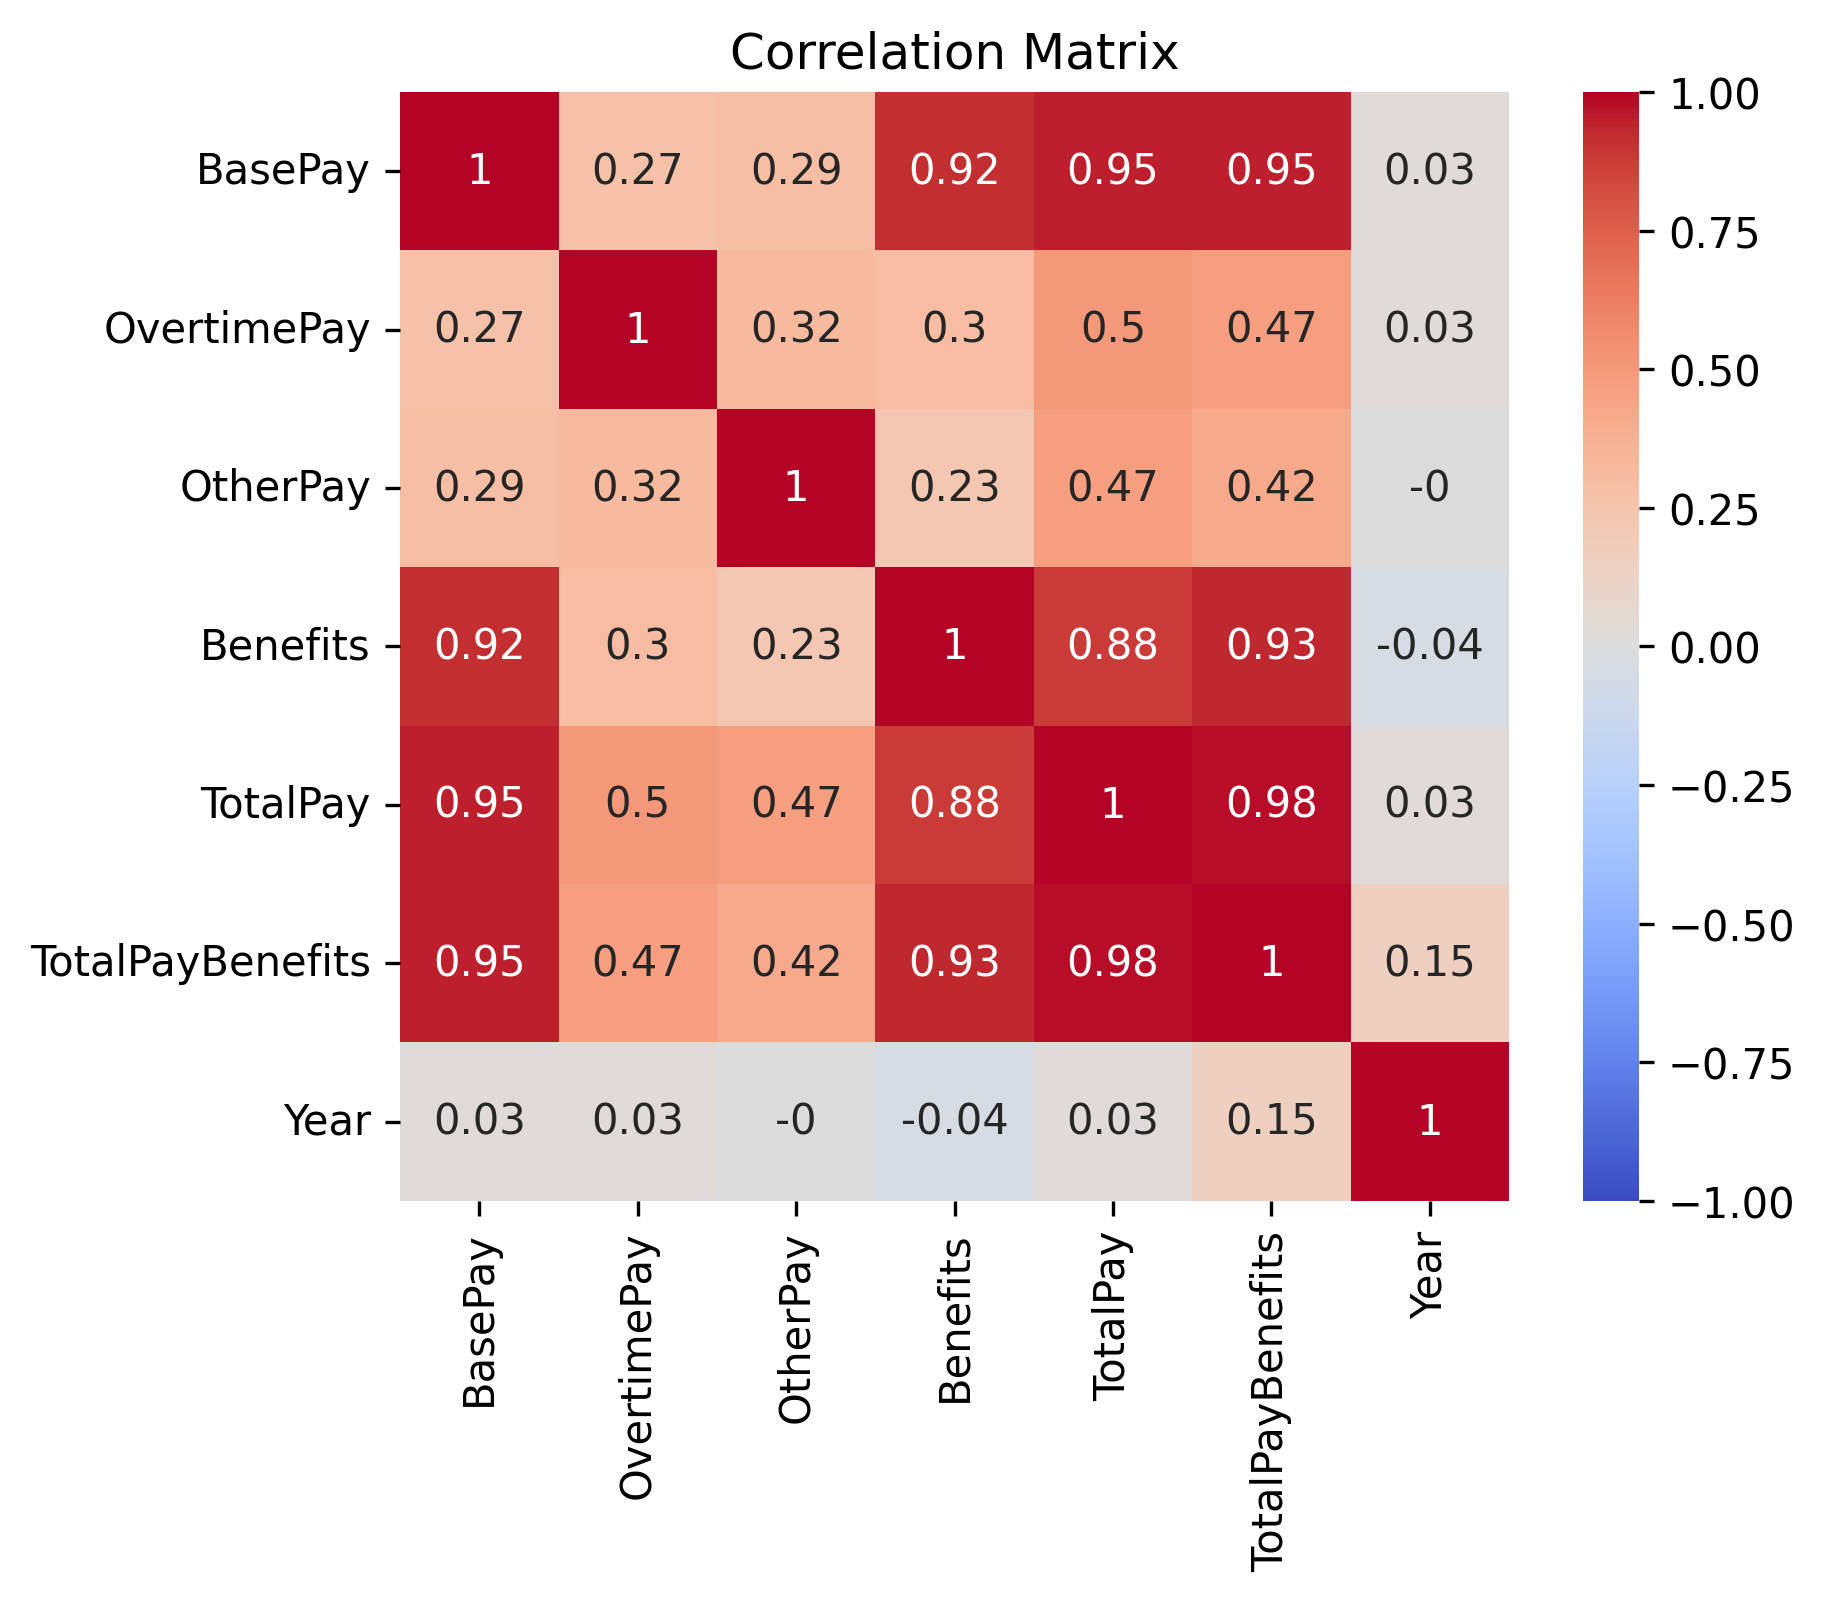
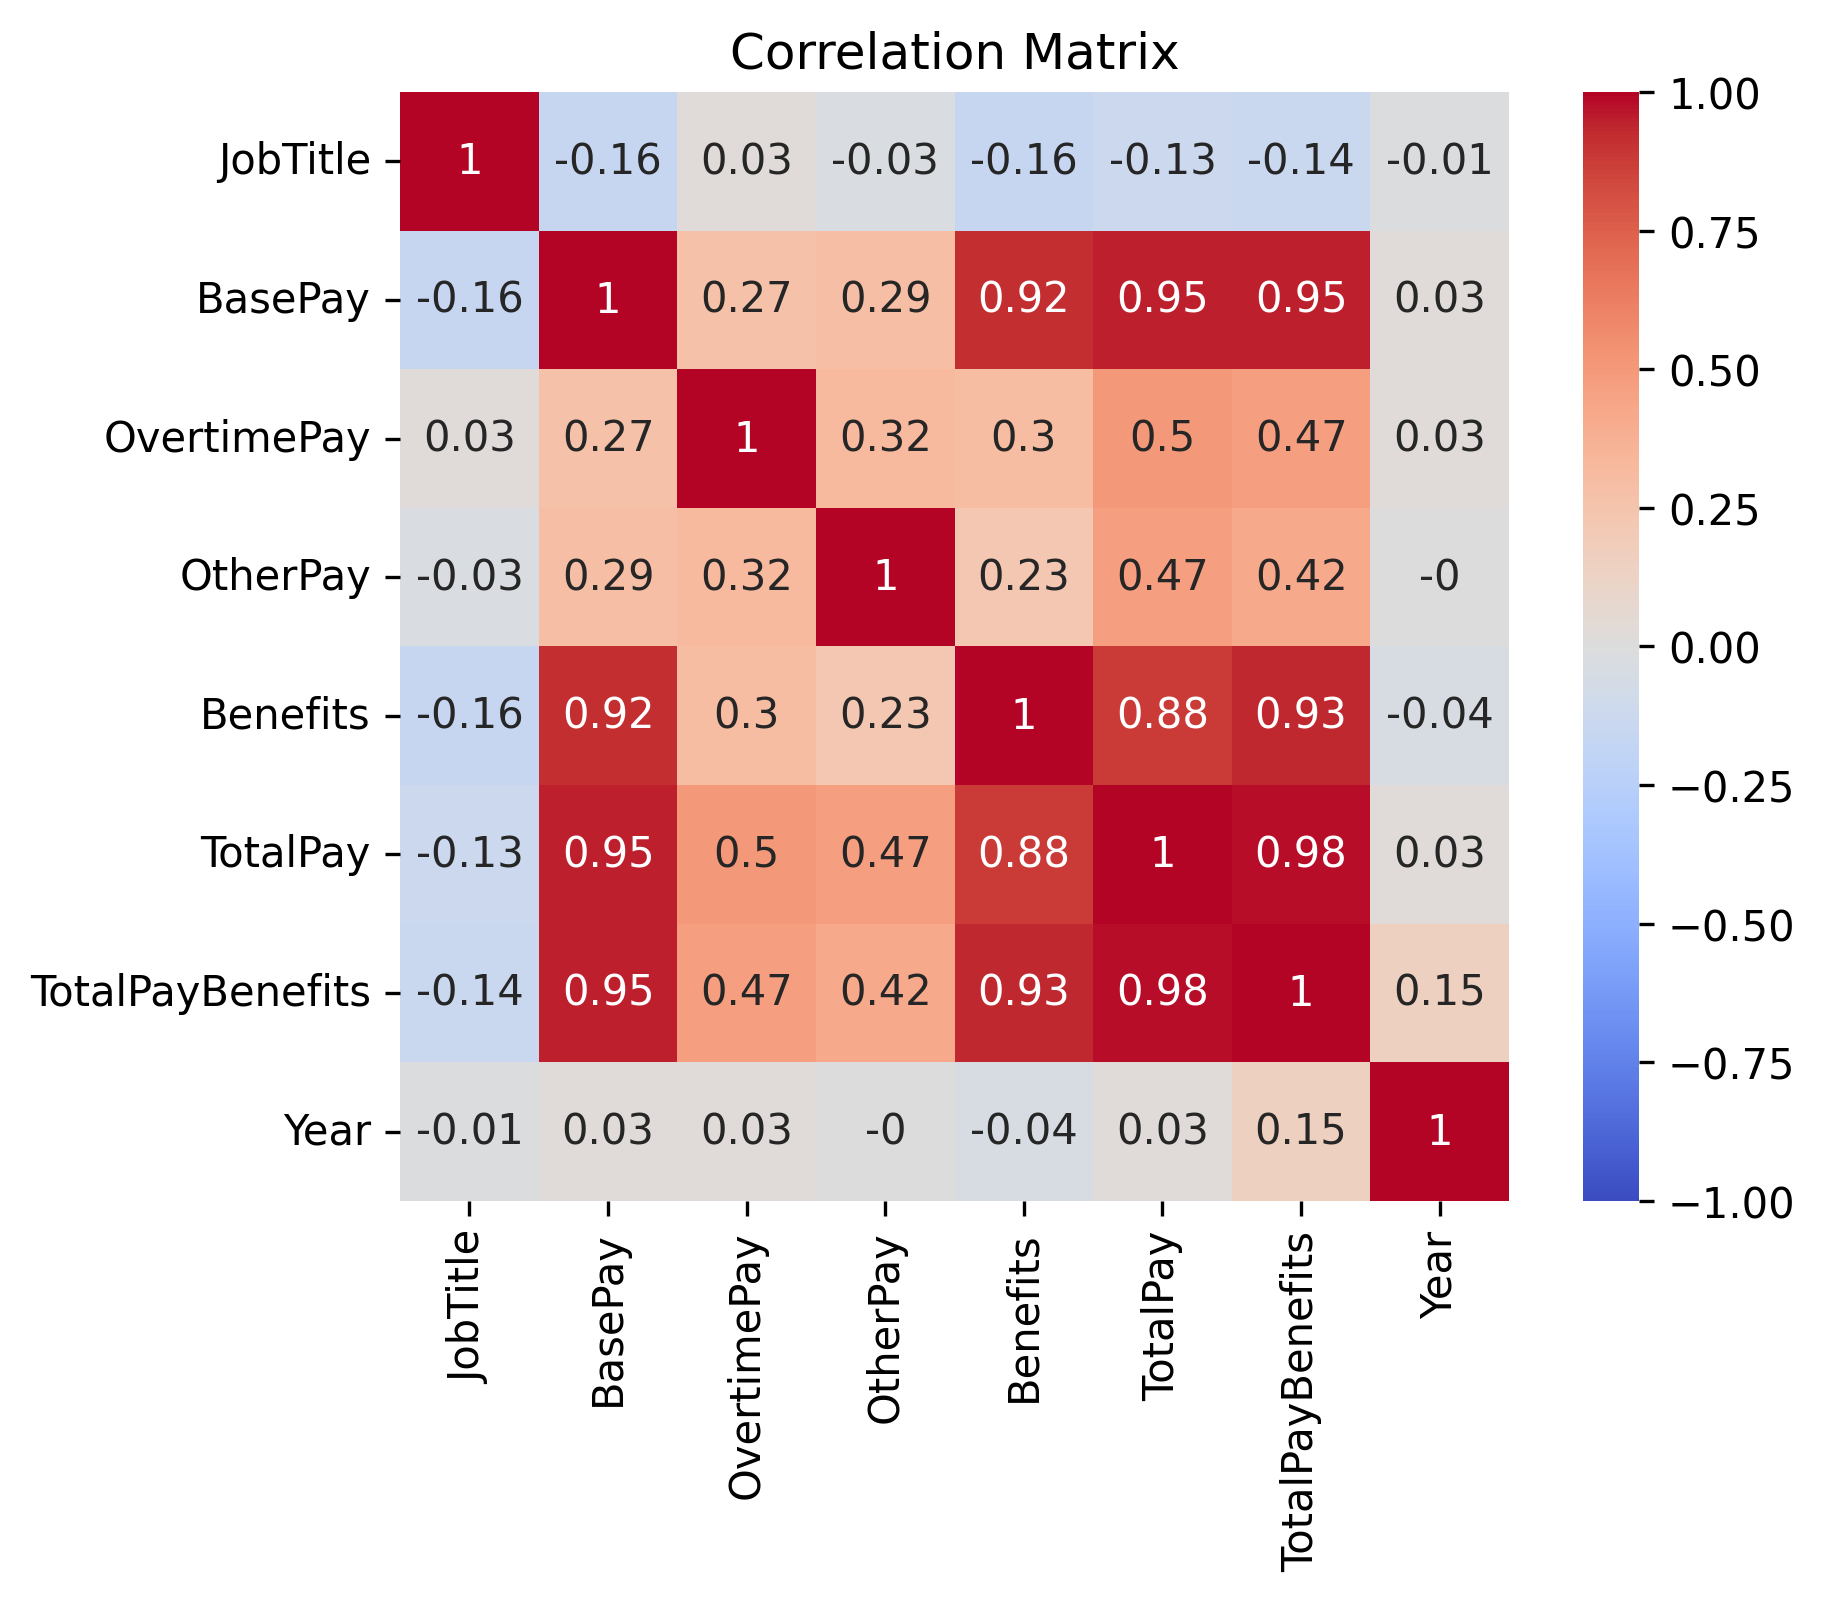
add job title label encoding

diff --git a/lab4/src/utils.py b/lab4/src/utils.py
@@ -1,5 +1,6 @@
 import pandas as pd
 import numpy as np
+from sklearn.preprocessing import LabelEncoder
 
 
 def get_unique_years(data: pd.DataFrame) -> list:
@@ -20,8 +21,11 @@ def get_correlation_matrix(data: pd.DataFrame) -> pd.DataFrame:
     :return: A list of lists, where each list represents the correlation between the columns of the data.
     """
 
-    data = data.apply(pd.to_numeric, errors="coerce")
+    le = LabelEncoder()
+    le.fit(data["JobTitle"])
+    data["JobTitle"] = le.transform(data["JobTitle"])
 
+    data = data.apply(pd.to_numeric, errors="coerce")
     correlation_matrix = data.corr()
     correlation_matrix = correlation_matrix.dropna(axis=0, how="all")
     correlation_matrix = correlation_matrix.dropna(axis=1, how="all")
